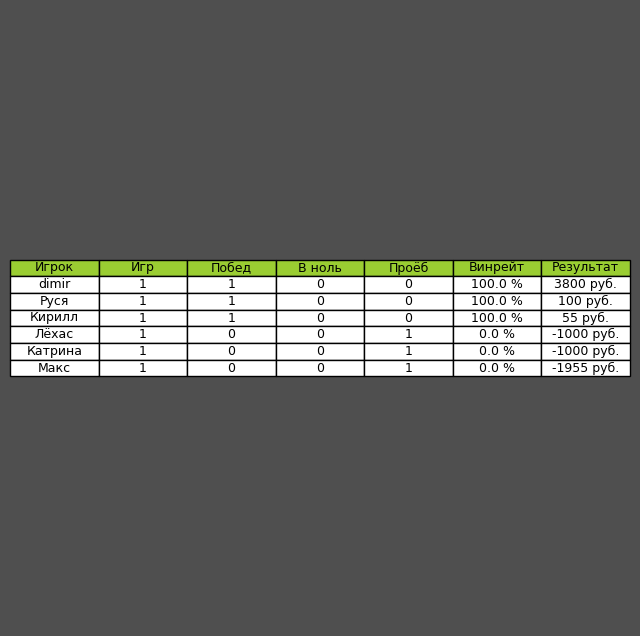
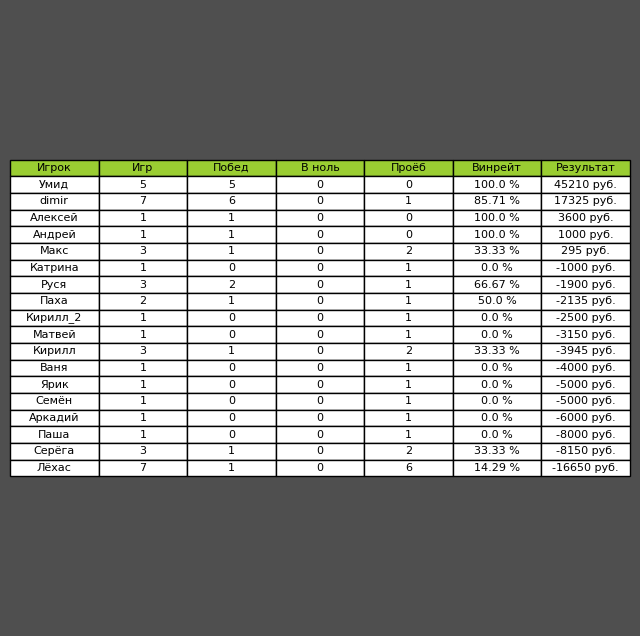
new

diff --git a/handlers/player_statistics.py b/handlers/player_statistics.py
@@ -16,7 +16,7 @@ async def player_statistics(call: CallbackQuery):
     """Вывести статистику всех игроков по сыгранным играм"""
     async with ChatActionSender.typing(bot=bot, chat_id=call.message.chat.id):
         await asyncio.sleep(2)
-        await update_player_statistics()
+        await update_player_statistics(call.data)
         photo = FSInputFile('statistics_image.png')
         await bot.send_photo(chat_id=call.message.chat.id, photo=photo, caption='Статистика игроков 🏆',
                              show_caption_above_media=True)
@@ -27,7 +27,17 @@ async def player_statistics(message: Message):
     """Вывести статистику всех игроков по сыгранным играм"""
     async with ChatActionSender.typing(bot=bot, chat_id=message.chat.id):
         await asyncio.sleep(2)
-        await update_player_statistics()
+        await update_player_statistics(message.text)
         photo = FSInputFile('statistics_image.png')
         await bot.send_photo(chat_id=message.chat.id, photo=photo, caption='Статистика игроков 🏆',
                              show_caption_above_media=True)
+
+
+@statistics_router.callback_query(F.data == 'общая cтатистика игроков')
+async def all_player_player_statistics(call: CallbackQuery):
+    """Вывести статистику игроков по всем базам данных"""
+    await asyncio.sleep(2)
+    await update_player_statistics(call.data)
+    photo = FSInputFile('statistics_image.png')
+    await bot.send_photo(chat_id=call.message.chat.id, photo=photo, caption='Статистика игроков 🏆',
+                         show_caption_above_media=True)

diff --git a/db_hadler/db_class.py b/db_hadler/db_class.py
@@ -119,6 +119,24 @@ class Database:
             return games_list
 
     @classmethod
+    async def get_all_games(cls):
+        """Получить список всех json результатов игр (таблица games) по всем базам данных"""
+        if cls._pool is None:
+            try:
+                cls._pool = await asyncpg.create_pool(dsn=cls._dsn)
+                print('Data base connected OK!')
+            except Exception as e:
+                print(f'Unable to connect to the database: {e}')
+        async with cls._pool.acquire() as conn:
+            games = await conn.fetch(f"SELECT game FROM games_1 ;")
+            games_2 = await conn.fetch(f"SELECT game FROM games_2 ;")
+            games_list = [game[0] for game in games if game[0]]
+            for game in games_2:
+                if game[0]:
+                    games_list.append(game[0])
+            return games_list
+
+    @classmethod
     async def update_player_statistics(cls, data: dict):
         """Обновить строки игроков согласно результатов всех игр (таблица players)"""
         if cls._pool is None:

diff --git a/utils/statistic_utils.py b/utils/statistic_utils.py
@@ -5,14 +5,15 @@ import json
 from db_hadler.db_class import Database
 
 
-async def update_player_statistics():
+async def update_player_statistics(choice):
     """Обновляем статистику игроков из всех игр базы данных.
     Оформляем таблицу статистику игроков для вывода"""
-    games = await Database.get_games()
-    print(games)
+    if choice == "общая cтатистика игроков":
+        games = await Database.get_all_games()
+    else:
+        games = await Database.get_games()
     statistic_not_sorted = dict()
     for game in games:
-        print(game)
         game = json.loads(game)
         for player, result in game.items():
             if result.get('Руб.') > 0:

diff --git a/keyboards/inline_kbs.py b/keyboards/inline_kbs.py
@@ -22,7 +22,8 @@ def main_kb(user_telegram_id: int):
 def admin_main_kb():
     kb_list = [
         [InlineKeyboardButton(text="📚 Меняем базу данных", callback_data='изменить базу данных')],
-        [InlineKeyboardButton(text="📋 Статистика игроков", callback_data='cтатистика игроков')]
+        [InlineKeyboardButton(text="📋 Статистика игроков", callback_data='cтатистика игроков')],
+        [InlineKeyboardButton(text="📋 Общая статистика игроков", callback_data='общая cтатистика игроков')]
     ]
     keyboard = InlineKeyboardMarkup(
         inline_keyboard=kb_list,
